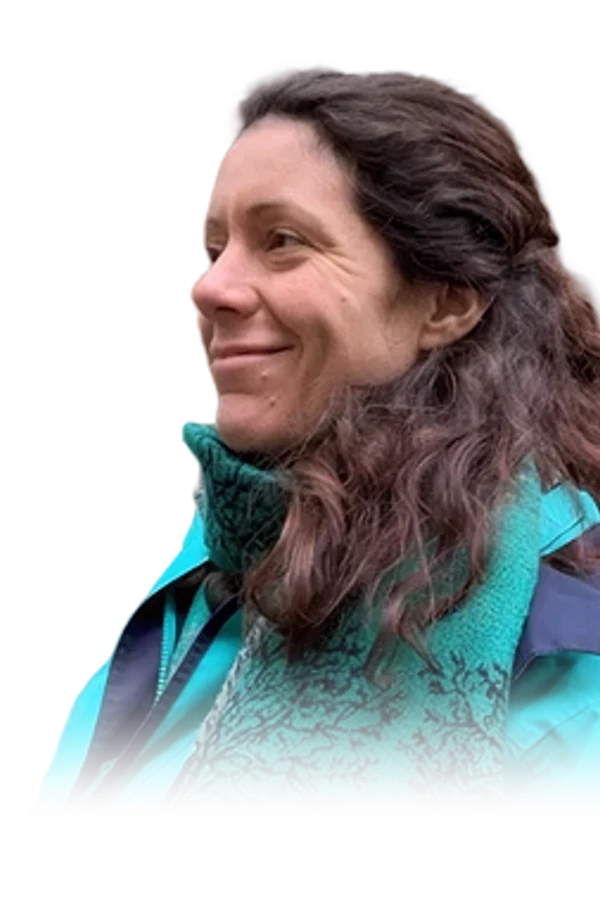
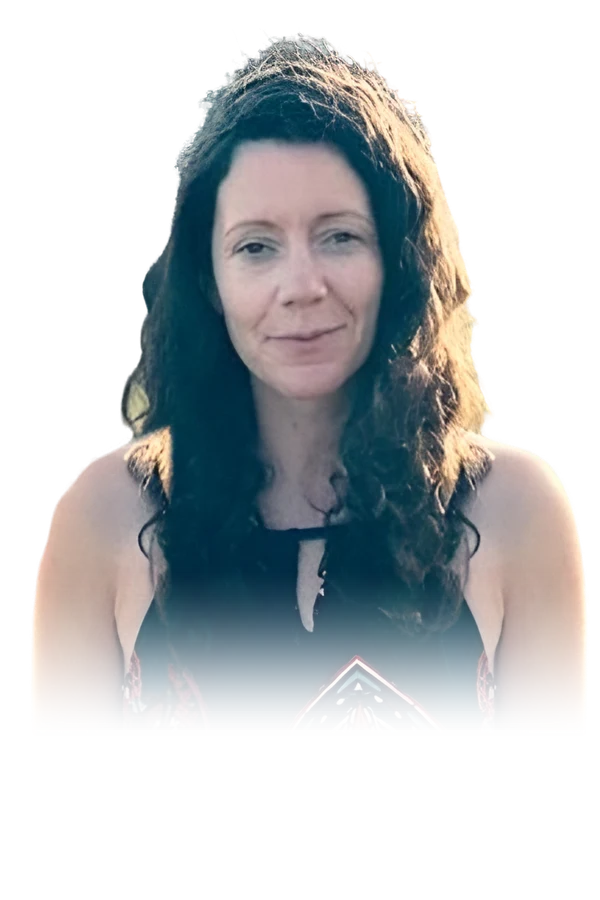
WhatsApp number in the session pages' contact boxes; Valérie's new photo
Every contact box now gives +34 694 269 223 and its button opens a
WhatsApp chat instead of an email. revise-session-pages.ts swaps the
line, the button label and the link on all fourteen live pages (Spanish
and Galician), keeping cover images. Valérie's team card is rebuilt from
the new photo, cut out and fitted by team-portraits.mjs. D-137.

Claude-Session: https://claude.ai/code/session_014xE5Jn27AKvK51HpAEmC14

diff --git a/scripts/revise-session-pages.ts b/scripts/revise-session-pages.ts
@@ -2,9 +2,11 @@
  * One-time: apply Joana Vidal's 2026-11-03 review of the session pages (D-136)
  * to the LIVE pages, in Spanish and in Galician.
  *
+ * It also puts the study's WhatsApp number in every page's contact box (D-137).
+ *
  * Unlike scripts/seed-session-materials.ts, this does not publish ./pages.ts
- * over the live text. It swaps only the strings listed in
- * ./session-materials/revision-2026-11-03.ts (and the one block swap there),
+ * over the live text. It swaps only the strings, the block and the contact
+ * button link listed in ./session-materials/revision-2026-11-03.ts,
  * so edits made in the Hub since the pages were loaded stay as they are. The
  * Galician strings come from ./session-materials/galician.json.
  *
@@ -42,7 +44,7 @@ async function main() {
   const { bodySchema } = await import("@/domain/content");
   const content = await import("@/services/content");
   const { SESSION_PAGES } = await import("./session-materials/pages");
-  const { REVISION_PAIRS, BLOCK_SWAPS } = await import("./session-materials/revision-2026-11-03");
+  const { REVISION_PAIRS, BLOCK_SWAPS, CONTACT_PAIRS, FIELD_SWAPS } = await import("./session-materials/revision-2026-11-03");
   const { revisePage } = await import("./session-materials/revise");
 
   const gl = galicianTranslator(loadGalicianTable());
@@ -54,7 +56,7 @@ async function main() {
   if (!actor) throw new Error(`No staff user with email ${actorEmail}.`);
   const base = { studyId: study.id, actorId: actor.id };
 
-  const keys = [...new Set([...Object.keys(REVISION_PAIRS), ...BLOCK_SWAPS.map((b) => b.key)])];
+  const keys = SESSION_PAGES.map((p) => `${p.sessionCode}-${p.part}`);
   const plans: { label: string; versionId: string; title: string; body: unknown; cover: string | null; pos: number }[] = [];
   const problems: string[] = [];
 
@@ -62,7 +64,7 @@ async function main() {
   for (const key of keys) {
     const page = SESSION_PAGES.find((p) => `${p.sessionCode}-${p.part}` === key);
     if (!page) throw new Error(`${key}: not in pages.ts`);
-    const esPairs = REVISION_PAIRS[key] ?? [];
+    const esPairs = [...(REVISION_PAIRS[key] ?? []), ...CONTACT_PAIRS];
     const esBlocks = BLOCK_SWAPS.filter((b) => b.key === key).map((b) => {
       const replacement = page.body.find(
         (x) => "title" in x && x.title === b.title && x.type !== b.type,
@@ -110,7 +112,7 @@ async function main() {
       });
 
       const liveBody = bodySchema.parse(live.body);
-      const outcome = revisePage(liveBody, pairs, blocks);
+      const outcome = revisePage(liveBody, pairs, blocks, FIELD_SWAPS);
       for (const miss of outcome.notFound) problems.push(`${label}: not on the live page: ${miss}`);
       if (outcome.applied === 0) {
         console.log(`page    ${label}: already revised`);

diff --git a/tests/session-revision.test.ts b/tests/session-revision.test.ts
@@ -1,7 +1,7 @@
 import { describe, expect, it } from "vitest";
 import { bodySchema } from "@/domain/content";
 import { SESSION_PAGES } from "../scripts/session-materials/pages";
-import { BLOCK_SWAPS, REVISION_PAIRS } from "../scripts/session-materials/revision-2026-11-03";
+import { BLOCK_SWAPS, CONTACT_PAIRS, FIELD_SWAPS, REVISION_PAIRS } from "../scripts/session-materials/revision-2026-11-03";
 import { bodyStrings, revisePage } from "../scripts/session-materials/revise";
 import { galicianTranslator, loadGalicianTable } from "../scripts/session-materials/galician";
 
@@ -22,6 +22,19 @@ describe("2026-11-03 session page revision (D-136)", () => {
     }
   });
 
+  it("every page's contact box in pages.ts has the WhatsApp line and button (D-137)", () => {
+    for (const p of SESSION_PAGES) {
+      const strings = pageStrings(`${p.sessionCode}-${p.part}`);
+      for (const [before, after] of CONTACT_PAIRS) {
+        expect(strings.has(after)).toBe(true);
+        expect(strings.has(before)).toBe(false);
+      }
+      const urls = p.body.flatMap((b) => (b.type === "SUPPORT_BOX" ? [b.contactUrl] : []));
+      expect(urls.length).toBeGreaterThan(0);
+      for (const url of urls) expect(url).toBe(FIELD_SWAPS[0].after);
+    }
+  });
+
   it("every block swap has its replacement in pages.ts", () => {
     for (const swap of BLOCK_SWAPS) {
       const page = SESSION_PAGES.find((p) => `${p.sessionCode}-${p.part}` === swap.key)!;
@@ -36,7 +49,7 @@ describe("2026-11-03 session page revision (D-136)", () => {
       gl.tr(p.title);
       gl.walk(bodySchema.parse(p.body));
     }
-    for (const pairs of Object.values(REVISION_PAIRS)) for (const [a, b] of pairs) {
+    for (const pairs of [...Object.values(REVISION_PAIRS), CONTACT_PAIRS]) for (const [a, b] of pairs) {
       gl.tr(a);
       gl.tr(b);
     }
@@ -76,5 +89,13 @@ describe("revisePage", () => {
     const again = revisePage(first.body, [], [swap]);
     expect(again.applied).toBe(0);
     expect(again.alreadyDone).toBe(1);
+  });
+  it("swaps a non-text field such as a contact link", () => {
+    const box = { type: "SUPPORT_BOX", contactUrl: "mailto:a@b.c" };
+    const swap = { field: "contactUrl", before: "mailto:a@b.c", after: "https://wa.me/1" };
+    const out = revisePage([box], [], [], [swap]);
+    expect(out.body).toEqual([{ type: "SUPPORT_BOX", contactUrl: "https://wa.me/1" }]);
+    expect(revisePage(out.body, [], [], [swap]).alreadyDone).toBe(1);
+    expect(revisePage([{ type: "X" }], [], [], [swap]).notFound).toEqual(["[contactUrl] mailto:a@b.c"]);
   });
 });

diff --git a/scripts/session-materials/revise.ts b/scripts/session-materials/revise.ts
@@ -56,15 +56,45 @@ function replaceStrings(n: unknown, map: Map<string, string>, hits: Set<string>,
   return n;
 }
 
+export interface FieldSwap {
+  /** A non-text property, such as a contact box's `contactUrl`. */
+  field: string;
+  before: string;
+  after: string;
+}
+
+function fieldValues(n: unknown, field: string, out: string[] = []): string[] {
+  if (Array.isArray(n)) for (const v of n) fieldValues(v, field, out);
+  else if (n && typeof n === "object") {
+    for (const [k, v] of Object.entries(n)) {
+      if (k === field && typeof v === "string") out.push(v);
+      else fieldValues(v, field, out);
+    }
+  }
+  return out;
+}
+
+function replaceField(n: unknown, swap: FieldSwap): unknown {
+  if (Array.isArray(n)) return n.map((v) => replaceField(v, swap));
+  if (n && typeof n === "object") {
+    return Object.fromEntries(
+      Object.entries(n).map(([k, v]) => [k, k === swap.field && v === swap.before ? swap.after : replaceField(v, swap)]),
+    );
+  }
+  return n;
+}
+
 /**
- * Applies `pairs` (whole-string swaps) and `blocks` (replace the top-level
- * block matching `match` with `replacement`) to a page body. A block swap
+ * Applies `pairs` (whole-string swaps), `blocks` (replace the top-level
+ * block matching `match` with `replacement`) and `fields` (every property
+ * `field` equal to `before`) to a page body. A block swap
  * whose replacement is already present counts as done.
  */
 export function revisePage(
   body: unknown[],
   pairs: [before: string, after: string][],
   blocks: { match: (b: Record<string, unknown>) => boolean; replacement: unknown; label: string }[] = [],
+  fields: FieldSwap[] = [],
 ): RevisionOutcome {
   let next = body;
   let applied = 0;
@@ -93,6 +123,15 @@ export function revisePage(
   const hits = new Set<string>();
   next = replaceStrings(next, map, hits) as unknown[];
   applied += hits.size;
+
+  for (const swap of fields) {
+    const values = fieldValues(next, swap.field);
+    if (values.includes(swap.before)) {
+      next = replaceField(next, swap) as unknown[];
+      applied++;
+    } else if (values.includes(swap.after)) alreadyDone++;
+    else notFound.push(`[${swap.field}] ${swap.before}`);
+  }
 
   return { body: next, applied, alreadyDone, notFound };
 }

diff --git a/scripts/session-materials/revision-2026-11-03.ts b/scripts/session-materials/revision-2026-11-03.ts
@@ -7,6 +7,9 @@
  * Spanish pages, and their Galician versions (./galician.json) on the live
  * Galician pages, leaving every other word, including edits made in the Hub,
  * as it is. ./pages.ts already carries the new text.
+ *
+ * It also carries the study's new WhatsApp number (D-137) into every page's
+ * contact box: CONTACT_PAIRS and FIELD_SWAPS apply to all fourteen pages.
  */
 
 export const REVISION_PAIRS: Record<string, [before: string, after: string][]> = {
@@ -199,4 +202,18 @@ export const REVISION_PAIRS: Record<string, [before: string, after: string][]> =
  */
 export const BLOCK_SWAPS: { key: string; type: string; title: string }[] = [
   { key: "s3-preparacion", type: "CALLOUT", title: "Una nota de cuidado" },
+];
+
+/** Every page: the contact box's line and button (D-137). */
+export const CONTACT_PAIRS: [before: string, after: string][] = [
+  [
+    "Puedes responder a cualquiera de nuestros mensajes de WhatsApp o escribirnos a info@numadelic.org.",
+    "Escríbenos por WhatsApp al +34 694 269 223 o por correo a info@numadelic.org.",
+  ],
+  ["Escribir a info@numadelic.org", "Escribir por WhatsApp"],
+];
+
+/** Every page: the contact button opens WhatsApp instead of an email (D-137). */
+export const FIELD_SWAPS: { field: string; before: string; after: string }[] = [
+  { field: "contactUrl", before: "mailto:info@numadelic.org", after: "https://wa.me/34694269223" },
 ];

diff --git a/scripts/session-materials/pages.ts b/scripts/session-materials/pages.ts
@@ -78,20 +78,23 @@ function divider(): ContentBlock {
   return { type: "DIVIDER", style: "solid", thickness: "thin", color: "default" };
 }
 
+/** The study's WhatsApp line (D-137), as people read it and as a wa.me link. */
+export const STUDY_WHATSAPP = "+34 694 269 223";
+export const STUDY_WHATSAPP_URL = "https://wa.me/34694269223";
+
 /**
- * The closing "write to us" box. The doc asks for a WhatsApp button, but the
- * study has no public WhatsApp number yet, so the box tells people to answer
- * any of the team's WhatsApp messages and links the email address.
+ * The closing "write to us" box: the doc's "[Botón: WhatsApp]" opens a chat
+ * with the study's number, and the text gives the number and the email too.
  */
 function contact(title: string, md: string): ContentBlock {
   return {
     type: "SUPPORT_BOX",
     title,
     content: markdownAstToRichTextDoc(
-      `${md}\n\nPuedes responder a cualquiera de nuestros mensajes de WhatsApp o escribirnos a ${STUDY_EMAIL}.`,
+      `${md}\n\nEscríbenos por WhatsApp al ${STUDY_WHATSAPP} o por correo a ${STUDY_EMAIL}.`,
     ),
-    contactLabel: `Escribir a ${STUDY_EMAIL}`,
-    contactUrl: `mailto:${STUDY_EMAIL}`,
+    contactLabel: "Escribir por WhatsApp",
+    contactUrl: STUDY_WHATSAPP_URL,
   };
 }
 

diff --git a/docs/decisions.md b/docs/decisions.md
@@ -5778,13 +5778,36 @@ wording is used as written, apart from keeping the existing bold and lists.
   translator was moved to `scripts/session-materials/galician.ts`, shared by both
   scripts.
 
+## D-137 · 2026-11-03 · The study's WhatsApp number on the session pages; Valérie's new photo
+
+- **WhatsApp.** The study now has a WhatsApp number, +34 694 269 223. Every session
+  page's contact box (D-124) had "answer any of our WhatsApp messages" and an email
+  button because there was no number. Now the line reads "Escríbenos por WhatsApp al
+  +34 694 269 223 o por correo a info@numadelic.org." and the button, "Escribir por
+  WhatsApp", opens a chat (`https://wa.me/34694269223`). The email stays in the text.
+  This covers the doc's "[Botón: WhatsApp]" and S3's "[botón de contacto] y mail".
+  It goes live with D-136's run of `scripts/revise-session-pages.ts`, which swaps
+  these two strings and the button link on all fourteen pages, Spanish and Galician,
+  and keeps each page's cover image (the new version is drafted from the live one).
+- **Not changed.** The message templates (message 1 still says "escríbenos a
+  info@numadelic.org o responde a este mensaje"): re-running the seed would overwrite
+  template edits made in the Hub, so add the number there from the Hub if wanted.
+  The landing page's "CONTACTO" marker stays gated: it also waits on an alternative
+  contact route and the registry link.
+- **Valérie's photo.** Her team card uses the photo the founder sent on 2026-11-03.
+  The background was removed with rembg (`isnet-general-use`) into
+  `portraits/Transparent/valerie-bonnelle-2026-11.png`, and her row in
+  `scripts/team-portraits.mjs` was re-measured (head top read at the solid hairline,
+  not the backlit strands, so her face matches the others' size). Only her card was
+  replaced; the other cards were not regenerated.
+
 ## Open questions for researchers
 
 - D-136: Joana suggested opening WhatsApp contact from the landing page and moving the
   control group's emails (welcome, Qualtrics, follow-ups) to WhatsApp. José replied that
   direct WhatsApp messages could be added alongside the email automations. Which
   messages should go by WhatsApp, and should the landing page get a WhatsApp link (the
-  study has no public number on record yet)?
+  number, +34 694 269 223, exists since D-137)?
 
 - The breathing guide now keeps two things in the visitor's browser storage
   when a facilitator uses them (D-120): the panel mode and named saved
